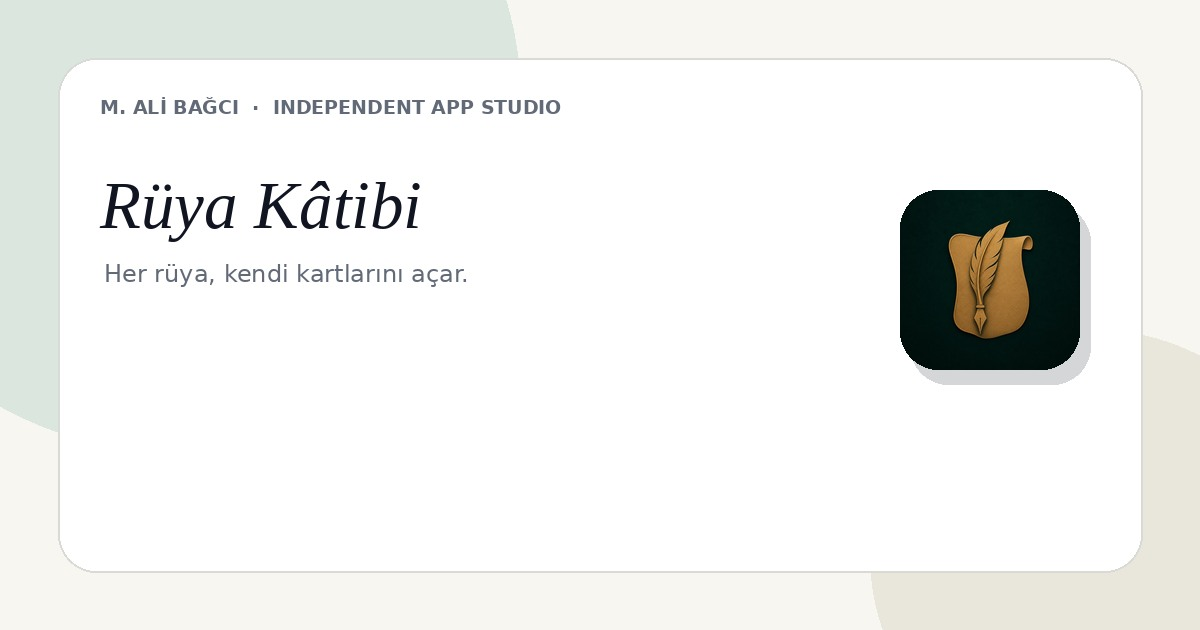
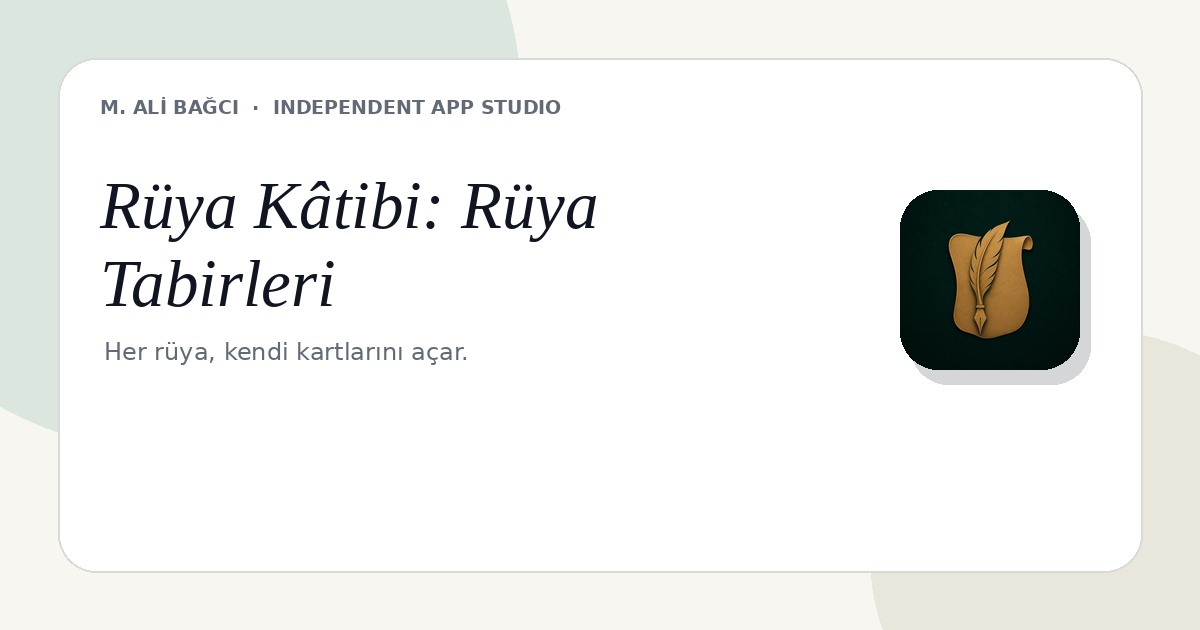
feat: rename Ruya Katibi product

Changed region(s): [[0.0925, 0.3921, 0.4008, 0.4825], [0.37, 0.2714, 0.4933, 0.3921], [0.0925, 0.5429, 0.4008, 0.573]]

diff --git a/ruya-katibi/index.html b/ruya-katibi/index.html
@@ -3,19 +3,19 @@
 <head>
   <meta charset="utf-8">
   <meta name="viewport" content="width=device-width,initial-scale=1">
-  <title>Rüya Kâtibi — M. Ali Bağcı</title>
+  <title>Rüya Kâtibi: Rüya Tabirleri — M. Ali Bağcı</title>
   <meta name="description" content="Rüyanızı anlatın, size açılan kartları seçin ve kişiselleştirilmiş, gizemli bir rüya tabiri deneyimi yaşayın.">
   <meta name="theme-color" content="#f7f6f1">
   <link rel="canonical" href="https://malibag.github.io/ruya-katibi/">
   <meta property="og:type" content="website"><meta property="og:locale" content="tr_TR">
-  <meta property="og:title" content="Rüya Kâtibi — M. Ali Bağcı"><meta property="og:description" content="Rüyanızı anlatın, size açılan kartları seçin ve kişiselleştirilmiş, gizemli bir rüya tabiri deneyimi yaşayın.">
-  <meta property="og:url" content="https://malibag.github.io/ruya-katibi/"><meta property="og:image" content="https://malibag.github.io/assets/social/ruya-katibi.jpg">
-  <meta name="twitter:card" content="summary_large_image"><meta name="twitter:title" content="Rüya Kâtibi — M. Ali Bağcı">
-  <meta name="twitter:description" content="Rüyanızı anlatın, size açılan kartları seçin ve kişiselleştirilmiş, gizemli bir rüya tabiri deneyimi yaşayın."><meta name="twitter:image" content="https://malibag.github.io/assets/social/ruya-katibi.jpg">
+  <meta property="og:title" content="Rüya Kâtibi: Rüya Tabirleri — M. Ali Bağcı"><meta property="og:description" content="Rüyanızı anlatın, size açılan kartları seçin ve kişiselleştirilmiş, gizemli bir rüya tabiri deneyimi yaşayın.">
+  <meta property="og:url" content="https://malibag.github.io/ruya-katibi/"><meta property="og:image" content="https://malibag.github.io/assets/social/ruya-katibi.jpg?v=2">
+  <meta name="twitter:card" content="summary_large_image"><meta name="twitter:title" content="Rüya Kâtibi: Rüya Tabirleri — M. Ali Bağcı">
+  <meta name="twitter:description" content="Rüyanızı anlatın, size açılan kartları seçin ve kişiselleştirilmiş, gizemli bir rüya tabiri deneyimi yaşayın."><meta name="twitter:image" content="https://malibag.github.io/assets/social/ruya-katibi.jpg?v=2">
   <link rel="icon" href="../assets/mark.svg" type="image/svg+xml">
   <link rel="preconnect" href="https://fonts.googleapis.com"><link rel="preconnect" href="https://fonts.gstatic.com" crossorigin>
   <link href="https://fonts.googleapis.com/css2?family=Inter:wght@400;500;600;700;800&display=swap" rel="stylesheet"><link rel="stylesheet" href="../style.css?v=3">
-  <script type="application/ld+json">{"@context":"https://schema.org","@type":"SoftwareApplication","name":"Rüya Kâtibi","description":"Rüyanızı anlatın, size açılan kartları seçin ve kişiselleştirilmiş, gizemli bir rüya tabiri deneyimi yaşayın.","applicationCategory":"MobileApplication","operatingSystem":"Android, iOS","url":"https://malibag.github.io/ruya-katibi/","image":"https://malibag.github.io/assets/social/ruya-katibi.jpg","author":{"@type":"Person","name":"M. Ali Bağcı","email":"bagcimuhammetali@gmail.com"}}</script>
+  <script type="application/ld+json">{"@context":"https://schema.org","@type":"SoftwareApplication","name":"Rüya Kâtibi: Rüya Tabirleri","description":"Rüyanızı anlatın, size açılan kartları seçin ve kişiselleştirilmiş, gizemli bir rüya tabiri deneyimi yaşayın.","applicationCategory":"MobileApplication","operatingSystem":"Android, iOS","url":"https://malibag.github.io/ruya-katibi/","image":"https://malibag.github.io/assets/social/ruya-katibi.jpg?v=2","author":{"@type":"Person","name":"M. Ali Bağcı","email":"bagcimuhammetali@gmail.com"}}</script>
 </head>
 <body class="ruya-page">
   <div class="shell">
@@ -24,13 +24,13 @@
       <a class="back-link" href="../">← Tüm uygulamalar</a>
       <section class="detail-hero" style="--accent:#b89045">
         <div class="detail-copy-block">
-          <img class="detail-icon" src="../assets/icons/ruya-katibi.jpg" alt="Rüya Kâtibi uygulama simgesi" width="92" height="92">
+          <img class="detail-icon" src="../assets/icons/ruya-katibi.jpg" alt="Rüya Kâtibi: Rüya Tabirleri uygulama simgesi" width="92" height="92">
           <span class="eyebrow" style="margin-top:25px">Kişisel keşif · Çok yakında Google Play ve App Store’da</span>
-          <h1>Rüya Kâtibi</h1><p class="detail-lead">Rüyanızdaki ayrıntıları anlatın, size özel açılan kartların arasından seçim yapın ve başka bir yerde karşılaşmayacağınız kişisel bir tabir deneyimine adım atın.</p>
+          <h1>Rüya Kâtibi: Rüya Tabirleri</h1><p class="detail-lead">Rüyanızdaki ayrıntıları anlatın, size özel açılan kartların arasından seçim yapın ve başka bir yerde karşılaşmayacağınız kişisel bir tabir deneyimine adım atın.</p>
           <div class="store-row"><span class="store-badge disabled"><span><small>GOOGLE PLAY</small><strong>Çok yakında</strong></span></span><span class="store-badge disabled"><span><small>APP STORE</small><strong>Çok yakında</strong></span></span></div>
-          <div class="detail-links"><a href="https://malibag.github.io/ruya-katibi-gizlilik/">Gizlilik Politikası ↗</a><a href="mailto:bagcimuhammetali@gmail.com?subject=Rüya Kâtibi">Destek ve iletişim ↗</a></div>
+          <div class="detail-links"><a href="https://malibag.github.io/ruya-katibi-gizlilik/">Gizlilik Politikası ↗</a><a href="mailto:bagcimuhammetali@gmail.com?subject=Rüya Kâtibi: Rüya Tabirleri">Destek ve iletişim ↗</a></div>
         </div>
-        <div class="detail-gallery" aria-label="Rüya Kâtibi uygulama ekranları"><figure class="phone"><img src="../assets/screenshots/ruya-katibi/ruyani-anlat.webp" alt="Rüyanızı ayrıntılarıyla anlatın" width="610" height="1210" loading="eager"></figure><figure class="phone"><img src="../assets/screenshots/ruya-katibi/kart-secimi.webp" alt="Size açılan kartlardan seçim yapın" width="610" height="1210" loading="lazy"></figure><figure class="phone"><img src="../assets/screenshots/ruya-katibi/kartlarin-acik.webp" alt="Kişisel tabir kartlarınızı okuyun" width="610" height="1210" loading="lazy"></figure></div>
+        <div class="detail-gallery" aria-label="Rüya Kâtibi: Rüya Tabirleri uygulama ekranları"><figure class="phone"><img src="../assets/screenshots/ruya-katibi/ruyani-anlat.webp" alt="Rüyanızı ayrıntılarıyla anlatın" width="610" height="1210" loading="eager"></figure><figure class="phone"><img src="../assets/screenshots/ruya-katibi/kart-secimi.webp" alt="Size açılan kartlardan seçim yapın" width="610" height="1210" loading="lazy"></figure><figure class="phone"><img src="../assets/screenshots/ruya-katibi/kartlarin-acik.webp" alt="Kişisel tabir kartlarınızı okuyun" width="610" height="1210" loading="lazy"></figure></div>
       </section>
       <section class="detail-section" style="--accent:#b89045">
         <div class="detail-intro"><div><span class="eyebrow">Uygulama hakkında</span><h2>Her rüya, kendi kartlarını açar.</h2><p>Rüyanızın sembollerini doğrudan ele vermeden, kart seçimi ve kişiselleştirme adımlarıyla merakı koruyan özgün bir yorumlama deneyimi.</p></div><div class="feature-list"><article class="feature-item"><b>01</b><strong>Rüyanı anlat</strong><p>Kişileri, nesneleri, yerleri ve duyguları kendi kelimelerinle yaz.</p></article><article class="feature-item"><b>02</b><strong>Kartlarını seç</strong><p>Rüyanın ayrıntılarına göre açılan gizemli kartlar arasından seçim yap.</p></article><article class="feature-item"><b>03</b><strong>Kişisel tabir</strong><p>Seçimlerin ve anlattığın rüya birlikte değerlendirilerek sana özel bir yorum oluşturulsun.</p></article><article class="feature-item"><b>04</b><strong>Rüya arşivi</strong><p>Rüyalarını ve yorumlarını zaman içinde saklayıp yeniden keşfet.</p></article></div></div>

diff --git a/index.html b/index.html
@@ -94,13 +94,13 @@
           </a>
         </div>
 
-        <a class="ruya-feature" href="ruya-katibi/" aria-label="Rüya Kâtibi uygulamasını keşfet">
+        <a class="ruya-feature" href="ruya-katibi/" aria-label="Rüya Kâtibi: Rüya Tabirleri uygulamasını keşfet">
           <div class="ruya-copy">
             <span class="eyebrow">Yaklaşan deneyim</span>
             <h3>Rüyanın içinde saklı olanı keşfet.</h3>
             <span class="status soon">Çok yakında Google Play ve App Store’da</span>
             <p>Rüyanı anlat, sana açılan kartları seç ve başka bir yerde karşılaşmayacağın kadar kişisel, gizemli bir tabir deneyimi yaşa.</p>
-            <span class="button light">Rüya Kâtibi’ni keşfet ↗</span>
+            <span class="button light">Rüya Kâtibi: Rüya Tabirleri’ni keşfet ↗</span>
           </div>
           <div class="ruya-phones" aria-hidden="true">
             <div class="phone two"><img src="assets/screenshots/ruya-katibi/ruyani-anlat.webp" alt=""></div>
